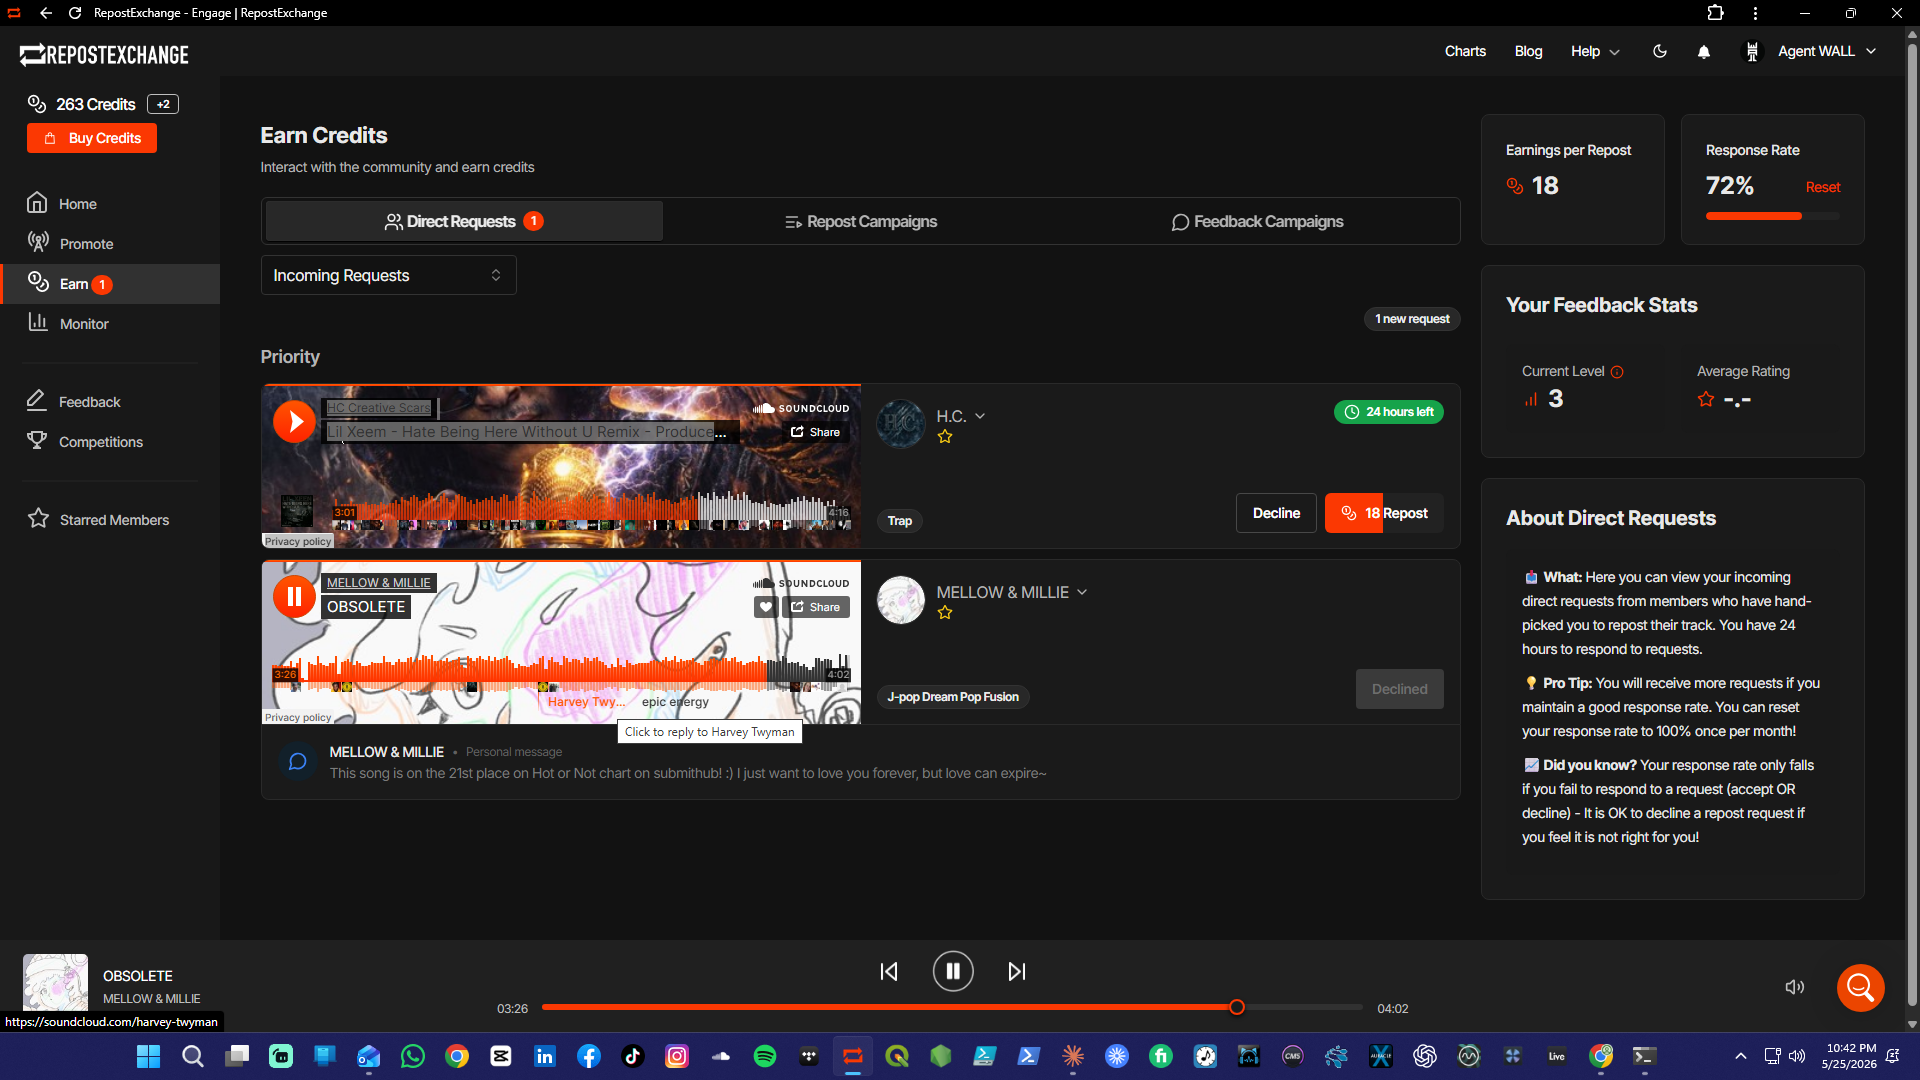
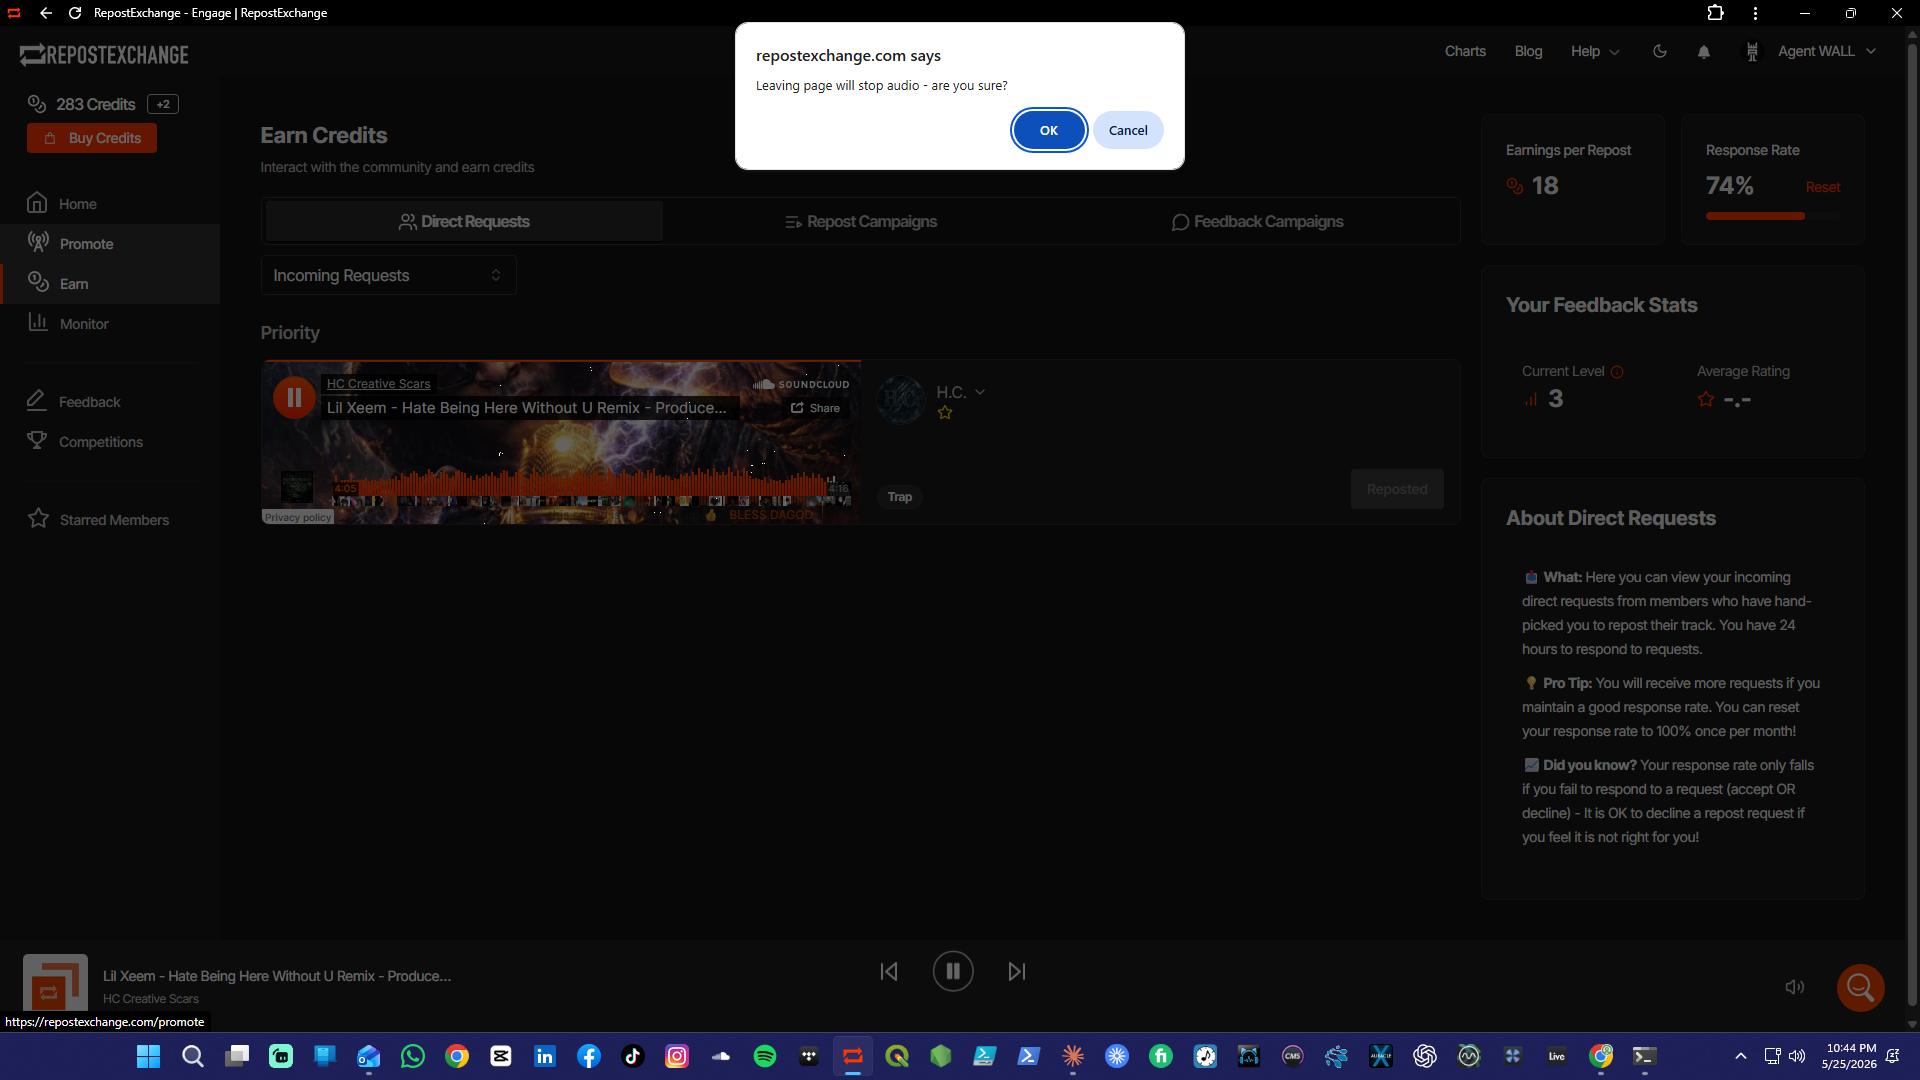
auto: screen_final.png, sunomaster_v54_final.py, uia_chrome.py

diff --git a/sunomaster_v54_final.py b/sunomaster_v54_final.py
@@ -1627,39 +1627,57 @@ def auto_align_vocal(new_L, new_R, ref_L, ref_R, sr=SR, max_offset_s=5.0):
     reference Demucs vocal stem using amplitude-envelope cross-correlation.
 
     Steps:
-      1. Compute 100 ms RMS envelopes of both signals
-      2. Cross-correlate within ±max_offset_s window
-      3. Find the lag with peak absolute correlation
-      4. Shift the new vocal by that offset
-      5. Report quality score (0-1; >0.5 = good alignment)
+      1. Compute RMS envelopes at ~10 Hz (100ms resolution) — O(n) via uniform_filter1d
+      2. Downsample envelopes so cross-correlation is on ~2750 pts, not 13M
+      3. Cross-correlate with scipy FFT method — fast on short arrays
+      4. Convert best lag back to samples at original SR
+      5. Shift the new vocal by that offset
 
     Returns: (aligned_L, aligned_R, offset_ms, score)
     """
-    def _env(L, R):
+    from scipy.ndimage import uniform_filter1d
+    from scipy.signal import correlate as sp_correlate
+
+    # 100ms decimation factor — gives 10 Hz envelope resolution
+    dec = max(1, int(sr * 0.100))
+
+    def _env_decimated(L, R):
         mono = ((L.astype(np.float64) + R.astype(np.float64)) * 0.5)
-        win  = max(1, int(sr * 0.100))
-        return np.sqrt(np.maximum(np.convolve(mono**2, np.ones(win)/win, mode='same'), 0.0))
+        # O(n) uniform RMS — far faster than np.convolve
+        rms2 = uniform_filter1d(mono ** 2, size=dec, mode='nearest')
+        env_full = np.sqrt(np.maximum(rms2, 0.0))
+        return env_full[::dec].astype(np.float32)   # decimate to ~10 Hz
 
-    env_new = _env(new_L, new_R)
-    env_ref = _env(ref_L, ref_R)
+    env_new = _env_decimated(new_L, new_R)
+    env_ref = _env_decimated(ref_L, ref_R)
     N = min(len(env_new), len(env_ref))
-    a = env_new[:N]; b = env_ref[:N]
-    max_lag = min(int(max_offset_s * sr), N // 4)
+    a = env_new[:N].astype(np.float64)
+    b = env_ref[:N].astype(np.float64)
 
-    corr   = np.correlate(a - a.mean(), b - b.mean(), mode='full')
+    # Max lag in decimated domain (±5 s at 10 Hz = ±50 samples)
+    max_lag_dec = min(int(max_offset_s * sr / dec), N // 4)
+
+    # FFT-based cross-correlation on the short decimated arrays
+    corr   = sp_correlate(a - a.mean(), b - b.mean(), mode='full', method='fft')
     center = len(corr) // 2
-    window = corr[center - max_lag : center + max_lag + 1]
-    best_lag = int(np.argmax(np.abs(window))) - max_lag
-    offset_ms = best_lag / sr * 1000.0
-    norm  = float(np.std(a) * np.std(b) * N)
-    score = float(np.clip(corr[center + best_lag] / norm, 0.0, 1.0)) if norm > 1e-10 else 0.0
+    win    = corr[center - max_lag_dec : center + max_lag_dec + 1]
+    best_lag_dec = int(np.argmax(np.abs(win))) - max_lag_dec
 
+    # Convert back to full-rate samples
+    best_lag  = best_lag_dec * dec
+    offset_ms = best_lag / sr * 1000.0
+
+    norm  = float(np.std(a) * np.std(b) * N)
+    score = float(np.clip(corr[center + best_lag_dec] / norm, 0.0, 1.0)) \
+            if norm > 1e-10 else 0.0
+
+    # Shift the full-rate signal by best_lag samples
     pad0 = np.zeros(abs(best_lag), dtype=np.float32)
     if best_lag > 0:
         aL = np.concatenate([pad0, new_L])[:len(ref_L)]
         aR = np.concatenate([pad0, new_R])[:len(ref_R)]
     elif best_lag < 0:
-        trim = abs(best_lag)
+        trim  = abs(best_lag)
         pad_n = max(0, len(ref_L) - (len(new_L) - trim))
         aL = np.concatenate([new_L[trim:], np.zeros(pad_n, np.float32)])[:len(ref_L)]
         aR = np.concatenate([new_R[trim:], np.zeros(pad_n, np.float32)])[:len(ref_R)]

diff --git a/uia_chrome.py b/uia_chrome.py
@@ -1,0 +1,28 @@
+"""
+Use Windows UI Automation to find Chrome's address bar and set URL directly.
+No keyboard focus required.
+"""
+import ctypes
+import ctypes.wintypes
+import time
+import subprocess
+import sys
+
+sys.stdout.reconfigure(line_buffering=True)
+
+# Load UIAutomation via comtypes
+try:
+    import comtypes.client
+    import comtypes.gen
+except ImportError:
+    subprocess.run([sys.executable, "-m", "pip", "install", "comtypes", "-q"])
+    import comtypes.client
+
+from comtypes import GUID
+import comtypes.client
+
+# Initialize UIAutomation
+uia = comtypes.client.CreateObject(
+    "{ff48dba4-60ef-4201-aa87-54103eef594e}",
+    interface=comtypes.gen.UIAutomationClient.IUIAutomation if hasattr(comtypes.gen, 'UIAutomationClient') else None
+)